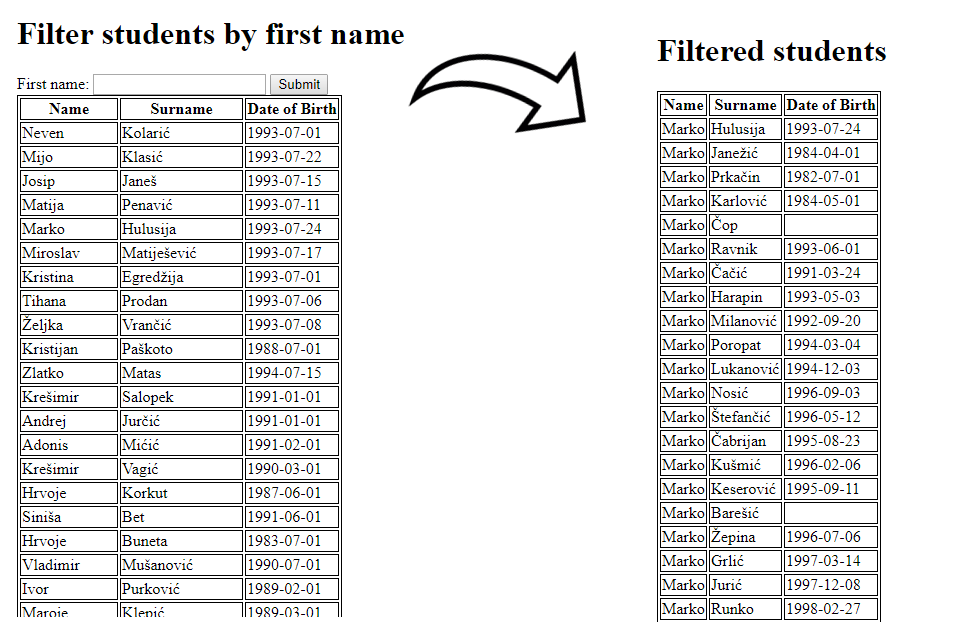
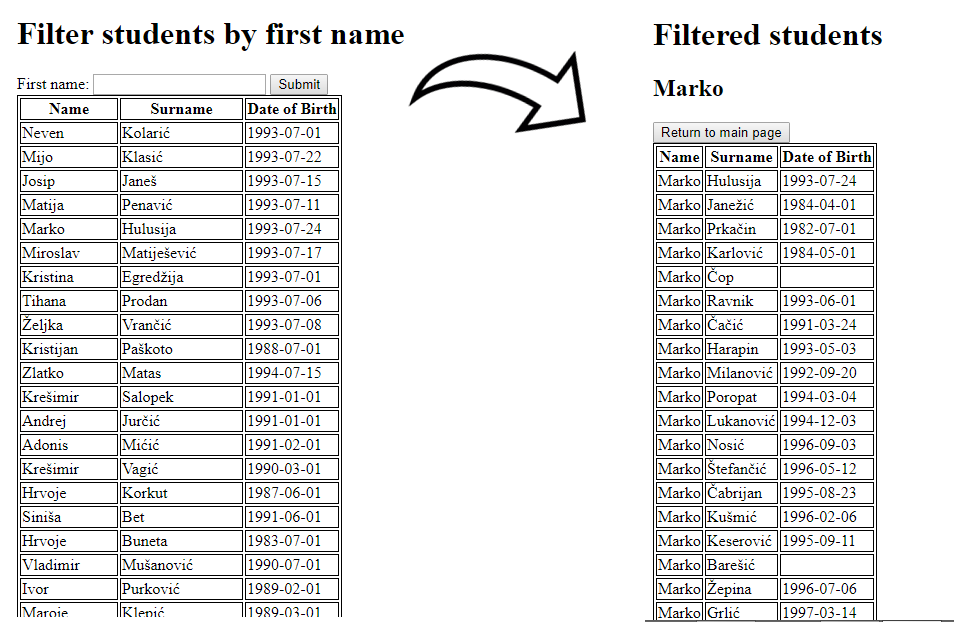
Updating the visuals

Changed region(s): [[0.6688, 0.0305, 0.9423, 1.0], [0.9727, 0.9775, 1.0, 1.0]]

diff --git a/RESTFulDatabaseAccess/src/main/resources/templates/studentsfiltered.html b/RESTFulDatabaseAccess/src/main/resources/templates/studentsfiltered.html
@@ -6,6 +6,11 @@
 	</head>
 	
 	<h1>Filtered students</h1>
+	<h2 th:text="${filterStudent.ime}"></h2>
+	
+	<form action="#" th:action="@{/table}" th:object="${stud}" method="get">
+  	<button type="submit" formaction=""> Return to main page </button>
+  	</form>
 	
 	<style>
 	table, th, td {

diff --git a/RESTFulDatabaseAccess/src/main/java/com/restfuldatabaseaccess/controllers/HtmlResponseController.java b/RESTFulDatabaseAccess/src/main/java/com/restfuldatabaseaccess/controllers/HtmlResponseController.java
@@ -40,6 +40,7 @@ public class HtmlResponseController {
 									 .filter(x -> x.getIme().equals(student.getIme()))
 									 .collect(Collectors.toList());
 		model.addAttribute("studentsinfo",filtered);
+		model.addAttribute("filterStudent", student);
 		return "studentsfiltered";
 	}
 	
